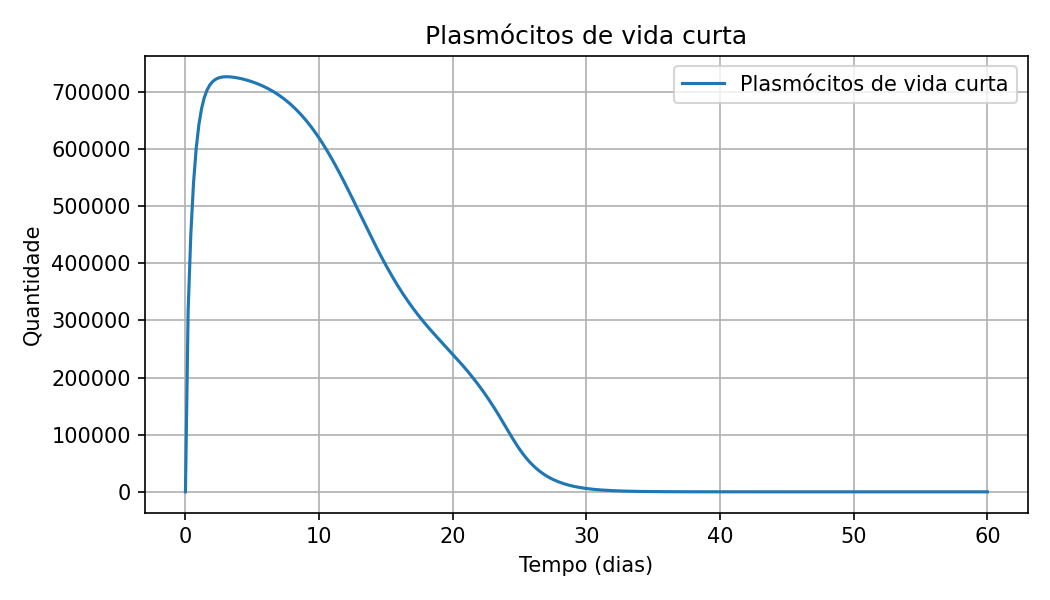
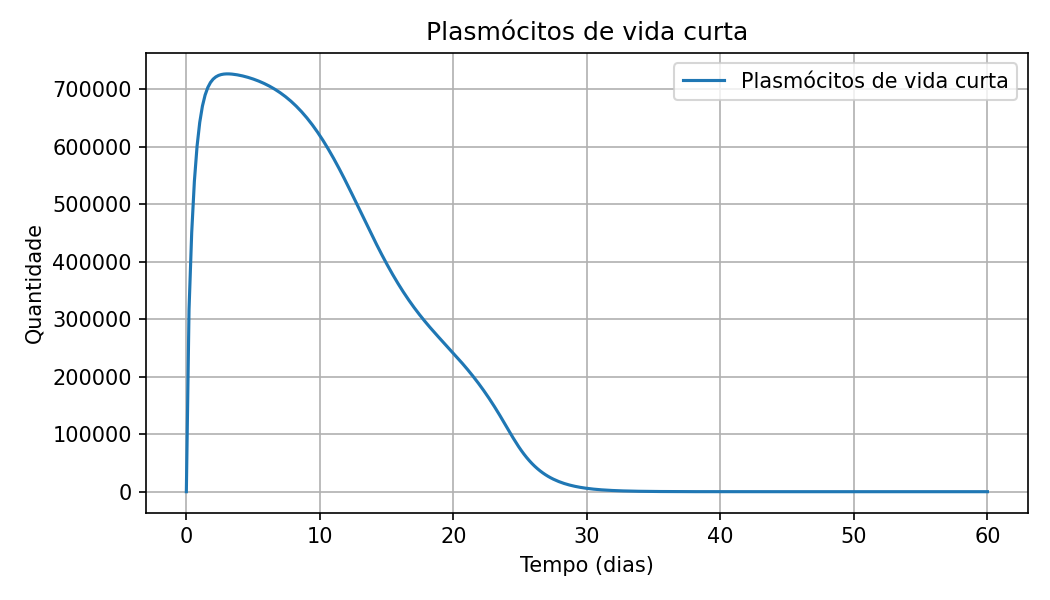
10 year reinjection simulation v0.1

diff --git a/Modelo_carla.py b/Modelo_carla.py
@@ -4,7 +4,7 @@ import matplotlib.pyplot as plt
 import os
 
 
-pasta_destino = os.path.join(os.path.dirname(__file__), "Images")
+pasta_destino = os.path.join(os.path.dirname(__file__), "Images for reinjection")
 
 os.makedirs(pasta_destino, exist_ok=True)
 
@@ -71,11 +71,26 @@ def immune_response(y, t, p):
 # Condições iniciais
 y0 = [724, 1e6, 0, 1e6, 0, 5e5, 0, 2.5e5, 0, 0, 0, 150]
 
+
+# Tempo para chegar aos 10 anos (sem reforço)
+t1 = np.concatenate([
+    np.linspace(0, 60, 300, endpoint=False),       # 60 primeiros dias
+    np.linspace(60, 3650, 700)                     # resto do tempo
+])
+
 # Tempo de simulação (dias)
-t = np.linspace(0, 60, 300)
+t2 = np.linspace(0, 60, 300)
+
 
 # Resolver o sistema
-sol = odeint(immune_response, y0, t, args=(params,))
+sol1 = odeint(immune_response, y0, t1, args=(params,))
+
+# Preparando para a reinjeção
+y_reinj = sol1[-1].copy()
+y_reinj[0] += 724
+
+sol2 = odeint(immune_response, y_reinj, t2, args=(params,))
+
 
 # Plotar os resultados
 labels = {
@@ -94,15 +109,33 @@ labels = {
 }
 
 chaves = list(labels.keys())
+
+# Índices onde t1 <= 60
+idx_t1_60 = t1 <= 60
+t1_cut = t1[idx_t1_60]
+sol1_cut = sol1[idx_t1_60]
+
 for i, chave in enumerate(chaves):
+    # Vacinação inicial
     plt.figure(figsize=(7, 4))
-    plt.plot(t, sol[:, i], label=labels[chave], color='tab:blue')
-    plt.title(labels[chave])
+    plt.plot(t1_cut, sol1_cut[:, i], label=f"{labels[chave]} (vacinação inicial)", color='tab:blue')
+    plt.title(f"{labels[chave]} - 1ª vacinação (60 dias)")
     plt.xlabel("Tempo (dias)")
     plt.ylabel("Quantidade")
     plt.grid(True)
-    plt.tight_layout()
     plt.legend()
-    caminho_arquivo = os.path.join(pasta_destino, f"{chave}.png")
-    plt.savefig(caminho_arquivo, dpi=150)
+    plt.tight_layout()
+    plt.savefig(os.path.join(pasta_destino, f"{chave}_primeira_60dias.png"), dpi=150)
+    plt.show()
+
+    # Reforço vacinal 
+    plt.figure(figsize=(7, 4))
+    plt.plot(t2, sol2[:, i], label=f"{labels[chave]} (reforço)", color='tab:green')
+    plt.title(f"{labels[chave]} - Reforço após 10 anos (60 dias)")
+    plt.xlabel("Tempo (dias)")
+    plt.ylabel("Quantidade")
+    plt.grid(True)
+    plt.legend()
+    plt.tight_layout()
+    plt.savefig(os.path.join(pasta_destino, f"{chave}_reforco_60dias.png"), dpi=150)
     plt.show()
